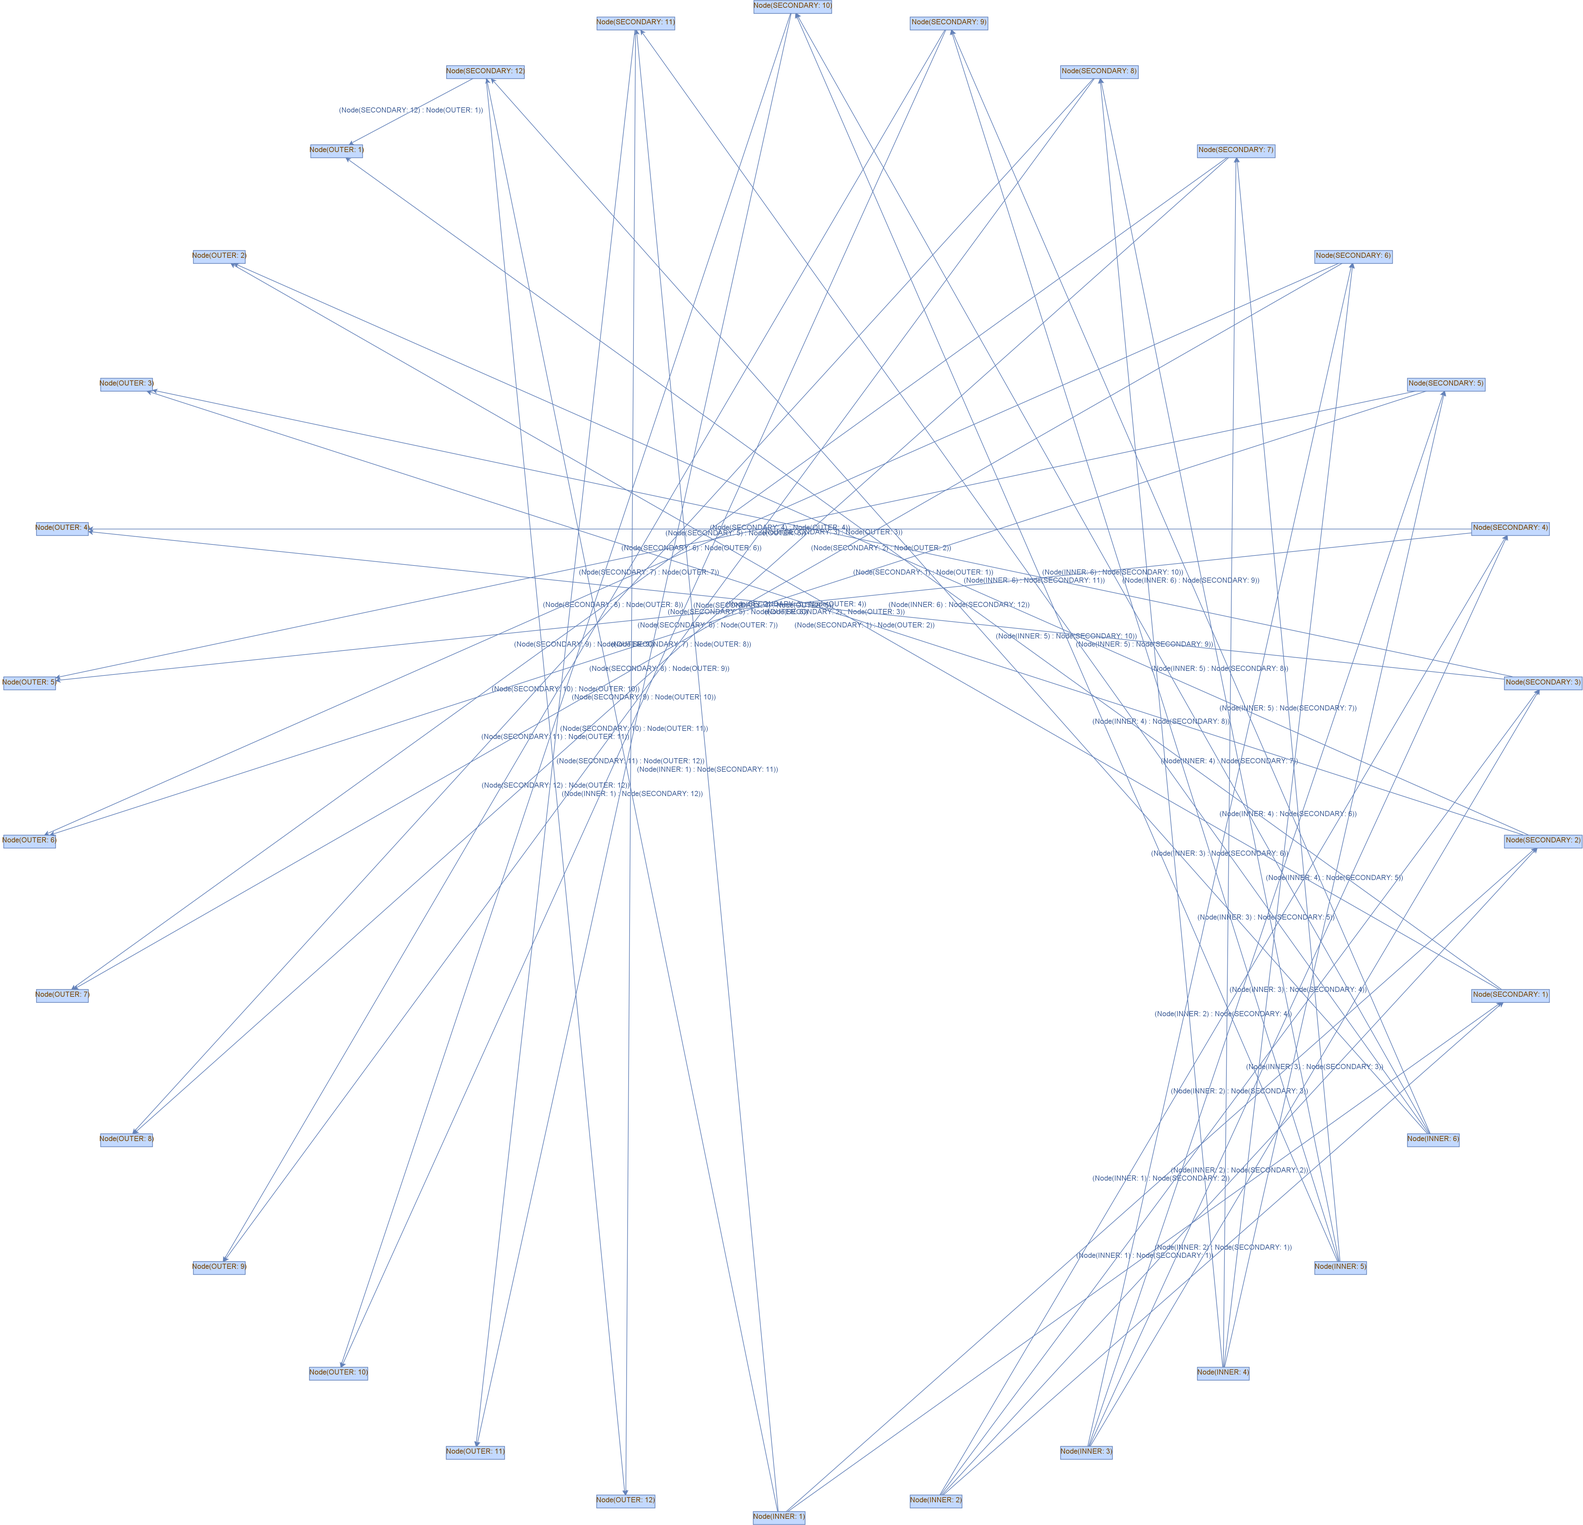
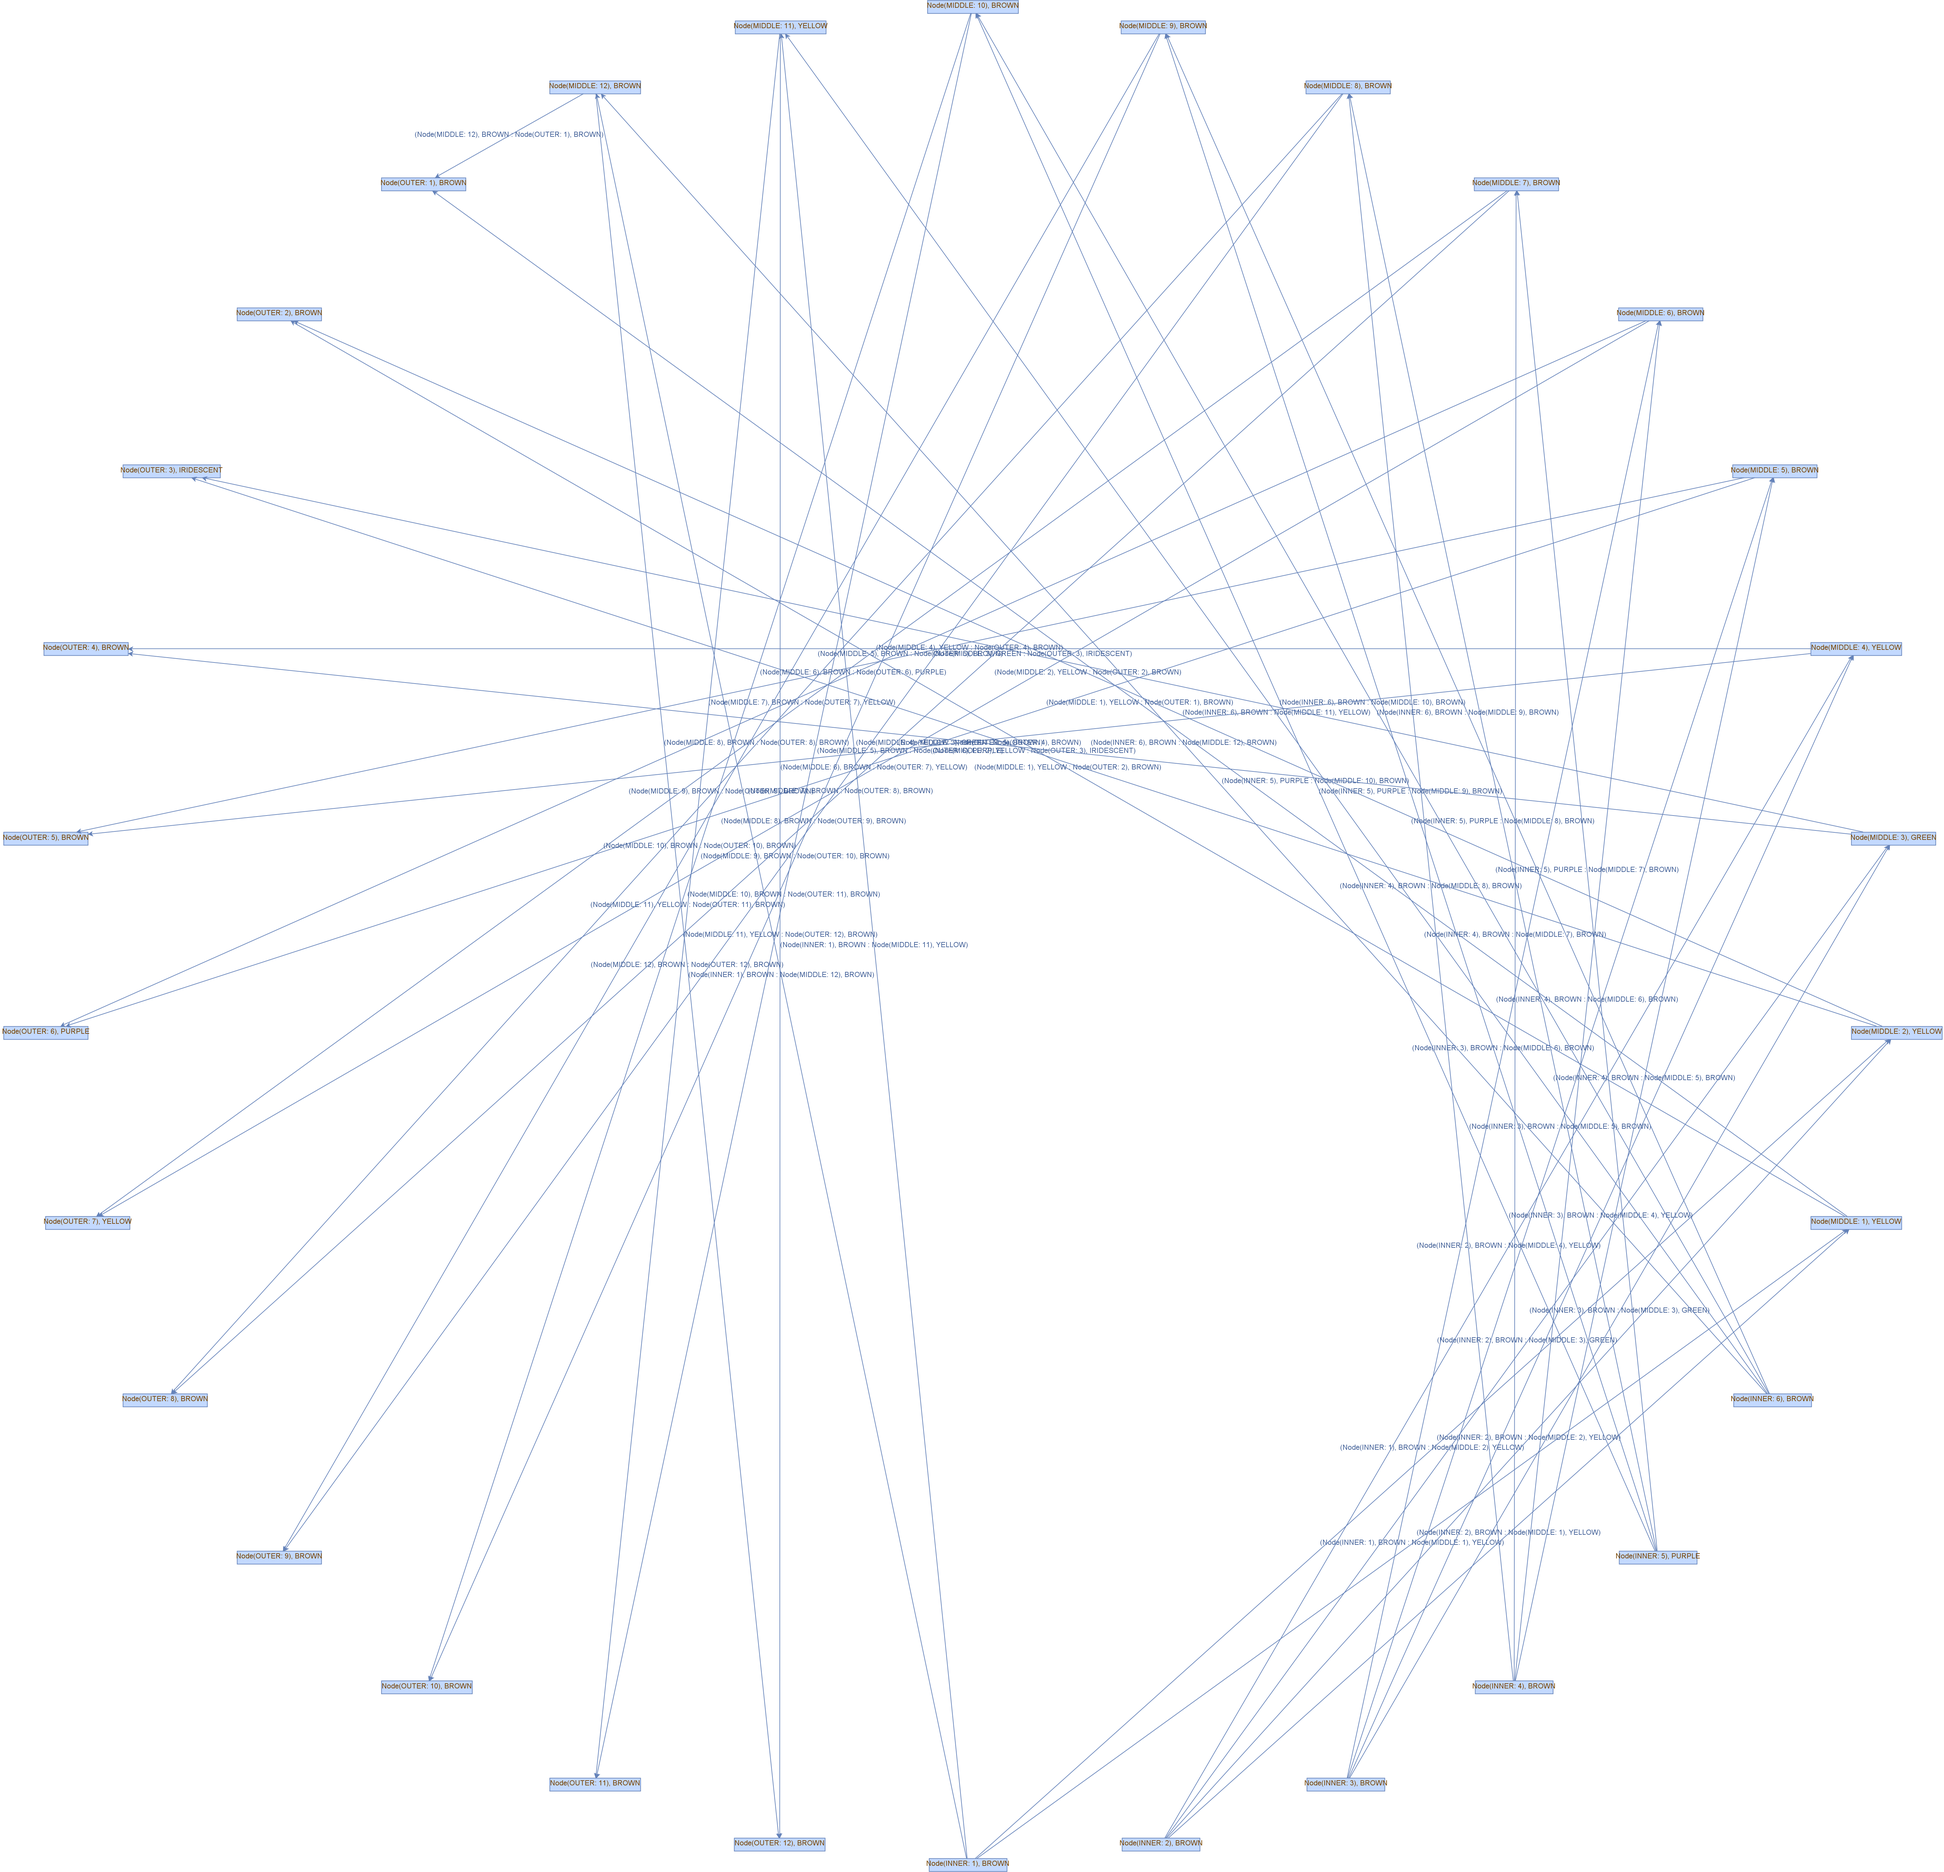
need to fix equals, or search

diff --git a/app/src/main/kotlin/execution_mode/SecondGraderExecutor.kt b/app/src/main/kotlin/execution_mode/SecondGraderExecutor.kt
@@ -1,14 +1,17 @@
 package execution_mode
 
 import blood_web.*
+import com.mxgraph.layout.mxCircleLayout
+import com.mxgraph.layout.mxIGraphLayout
+import com.mxgraph.util.mxCellRenderer
 import detector.Detector
-import helper.save
 import helper.sendLog
 import kotlinx.coroutines.delay
-import kotlinx.coroutines.runBlocking
-import org.jgrapht.Graph
-import org.jgrapht.graph.DefaultEdge
+import org.jgrapht.ext.JGraphXAdapter
+import java.awt.Color
 import java.awt.image.BufferedImage
+import java.io.File
+import javax.imageio.ImageIO
 
 class SecondGraderExecutor(
     delayNewLevelAnimation: Long,
@@ -26,21 +29,22 @@ class SecondGraderExecutor(
 ) {
 
     private val takeScreenShots = false
-    val graph = createFullGraph();
+    private val graph = createFullGraph();
 
 
     override suspend fun pumpBloodWeb() {
-        sendLog("Running SimpleExecutionMode")
+        sendLog("Вызов pumpBloodWeb")
         for (currentLevel in 1..levels) {
             sendLog("Pumping level #$currentLevel")
             pumpOneBloodWebLevel()
             delay(delayNewLevelAnimation)
             clickHelper.moveOutCursor()
         }
-        sendLog("SimpleExecutionMode completed")
+        sendLog("SecondGraderExecutor completed")
     }
 
     private suspend fun pumpOneBloodWebLevel() {
+        sendLog("Вызов pumpOneBloodWebLevel")
         val bloodWebScreenShot = takeScreenShot()
         detector.analyzeBloodWebPageState(bloodWebScreenShot).let { pageState ->
             when (pageState) {
@@ -53,39 +57,55 @@ class SecondGraderExecutor(
                     clickHelper.upgradePrestigeLevel()
                 }
                 BloodWebPageState.LEVEL -> {
-                    BloodWeb.BloodWebCircle.values().forEach {
-                        pumpOneCircleOfBloodWeb(it)
-                    }
+                    updateGraph()
+                    levelToTarget(findExpensiveNode())
                 }
             }
         }
     }
 
-    private suspend fun pumpOneCircleOfBloodWeb(circle: BloodWeb.BloodWebCircle) = runBlocking {
+    private suspend fun updateGraph() {
         val bloodWebScreenShot = takeScreenShot()
-        if (takeScreenShots)
-            bloodWebScreenShot.save(
-                fileName = "BloodWebScreenShot.png",
-            )
+        sendLog("Вызов updateGraph")
 
-        checkPerksInCircle(
-            circle = circle,
-            bloodWebScreenShot
-        ).let { nodes ->
-            sendLog("Pumping $circle")
-            nodes.forEach {
-                sendLog(it.toLogString())
-            }
-
-            nodes.filter { node ->
-                node.state == Node.State.EMPTY
-            }.forEach { perk ->
-                graph.removeVertex(perk)
-            }
+        var vertices = graph.vertexSet()
+        vertices.forEach(){node ->
+            detector.processNodeStateQuality(node, bloodWebScreenShot)
         }
 
+
+
+        vertices.filter {node ->
+            node.state == Node.State.EMPTY || node.state == Node.State.LOCKED
+        }.forEach { vertex ->
+//            vertices.remove(vertex)
+            val isEqual = graph.removeVertex(vertex)
+            sendLog("$vertex is removed $isEqual")
+        }
+        drawGraph()
+    }
+
+    private suspend fun drawGraph(){
+        sendLog("Вызов drawGraph")
+
+        val imgFile = File("resources/graph1.png")
+        imgFile.createNewFile()
+        val graphAdapter = JGraphXAdapter(graph)
+
+        val layout: mxIGraphLayout = mxCircleLayout(graphAdapter)
+
+        layout.execute(graphAdapter.defaultParent)
+
+        val image: BufferedImage = mxCellRenderer.createBufferedImage(graphAdapter, null, 2.0, Color.WHITE, true, null)
+
+        ImageIO.write(image, "PNG", imgFile)
+    }
+
+
+    private suspend fun findExpensiveNode(): Node{
+        sendLog("Вызов findExpensiveNode")
         val vertexSet = graph.vertexSet()
-        val targetPerk = vertexSet.find { node ->
+        return (vertexSet.find { node ->
             node.quality == Node.Quality.IRIDESCENT
         }?:vertexSet.find { node ->
             node.quality == Node.Quality.PURPLE
@@ -93,10 +113,38 @@ class SecondGraderExecutor(
             node.quality == Node.Quality.GREEN
         }?:vertexSet.find { node ->
             node.quality == Node.Quality.YELLOW
-        }?:vertexSet.first()
+        }?:vertexSet.first()).apply { sendLog("Target Node: $this") }
     }
 
-    private fun checkPerksInCircle(
+    private suspend fun changeTargetNode(oldTargetNode: Node): Node? {
+        sendLog("Вызов changeTargetNode")
+        val adjacentEdges = graph.edgesOf(oldTargetNode)
+        adjacentEdges.forEach{
+            val v = graph.getEdgeSource(it)
+            if (v.state == Node.State.AVAILABLE){
+                return v
+            }
+        }
+        
+        adjacentEdges.forEach{
+            return graph.getEdgeSource(it)
+        }
+        
+        return null
+    }
+
+    private suspend fun levelUpNode(node: Node){
+        sendLog("Вызов levelUpNode")
+        node.state?.let {
+            when (it) {
+                Node.State.AVAILABLE -> clickHelper.performClickOnNode(node)
+                Node.State.UNAVAILABLE, Node.State.LOCKED, Node.State.BOUGHT, Node.State.EMPTY -> 
+                    changeTargetNode(node)?.let {newTargetNode -> levelUpNode(newTargetNode) }                    
+            }
+        }
+    }
+
+    private fun setNodesParametersInCircle(
         circle: BloodWeb.BloodWebCircle,
         bufferedImage: BufferedImage
     ): List<Node> {
@@ -119,28 +167,12 @@ class SecondGraderExecutor(
     }
 
     private suspend fun levelToTarget(
-        graph: Graph<Node, DefaultEdge>,
-        targetNode: Node
+                targetNode: Node
     ) {
-        val bloodWebScreenShot = takeScreenShot()
-
-        when (targetNode.orderedNumber.circle) {
-            BloodWeb.BloodWebCircle.INNER -> {
-                clickHelper.performClickOnNode(targetNode)
-            }
-            BloodWeb.BloodWebCircle.MIDDLE -> {
-                val innerMiddleEdges = graph.edgesOf(targetNode)
-                var innerVertexes: Set<Node> = emptySet()
-                innerMiddleEdges.forEach{innerVertexes.plus(graph.getEdgeSource(it))}
-
-                val availableNode = innerVertexes.first { node ->
-                    node.state == Node.State.AVAILABLE
-                }
-                clickHelper.performClickOnNode(availableNode)
-            }
-            BloodWeb.BloodWebCircle.OUTER -> {
-
-            }
+        sendLog("Вызов levelToTarget")
+        while (targetNode.state != Node.State.BOUGHT || targetNode.state != Node.State.LOCKED) {
+            levelUpNode(targetNode)
+            updateGraph()
         }
     }
 }

diff --git a/app/src/main/kotlin/blood_web/Presets.kt b/app/src/main/kotlin/blood_web/Presets.kt
@@ -63,7 +63,7 @@ fun createFullGraph(): Graph<Node, DefaultEdge> {
         graph.addVertex(node)
     }
 
-    val vertexesSet = graph.vertexSet()
+    val verticesSet = graph.vertexSet()
 
     Presets().innerPoints.forEach { point ->
         val node1 = point.parseIntoNode()
@@ -72,8 +72,8 @@ fun createFullGraph(): Graph<Node, DefaultEdge> {
             val index = (node1.orderedNumber.position * 2 + 12 - 3 + i - 1) % 12 //
             val preset = Presets().middlePoints[index]
             graph.addEdge(
-                vertexesSet.find { it == node1 },
-                vertexesSet.find { node2 -> node2 == Node(preset.first, preset.second) })
+                verticesSet.find { it == node1 },
+                verticesSet.find { node2 -> node2 == Node(preset.first, preset.second) })
         }
     }
 
@@ -85,7 +85,7 @@ fun createFullGraph(): Graph<Node, DefaultEdge> {
         for (i in 0..1) {
             val index = (node1.orderedNumber.position - 1 + 12 + i) % 12 //
             val preset = Presets().outerPoints[index]
-            graph.addEdge(vertexesSet.find { it == node1 }, vertexesSet.find { node2 -> node2 == Node(preset.first, preset.second) })
+            graph.addEdge(verticesSet.find { it == node1 }, verticesSet.find { node2 -> node2 == Node(preset.first, preset.second) })
         }
 
     }

diff --git a/app/src/main/kotlin/presentation/compose/control_panel/ModeSelect.kt b/app/src/main/kotlin/presentation/compose/control_panel/ModeSelect.kt
@@ -1,6 +1,5 @@
 package presentation.compose.control_panel
 
-import androidx.compose.foundation.background
 import androidx.compose.foundation.layout.*
 import androidx.compose.material.Button
 import androidx.compose.material.Card
@@ -8,7 +7,6 @@ import androidx.compose.material.Text
 import androidx.compose.runtime.*
 import androidx.compose.ui.Alignment
 import androidx.compose.ui.Modifier
-import androidx.compose.ui.graphics.Color
 import androidx.compose.ui.unit.dp
 import helper.Command
 
@@ -35,8 +33,8 @@ fun ModesSelect(
                 setSelectedMode(Command.Mode.SIMPLE)
                 simpleButtonSelected = true
             }
-            Command.Mode.CHEAPEST_FIRST -> {
-                setSelectedMode(Command.Mode.CHEAPEST_FIRST)
+            Command.Mode.RAREST_FIRST -> {
+                setSelectedMode(Command.Mode.RAREST_FIRST)
                 ecoButtonSelected = true
             }
         }
@@ -71,7 +69,7 @@ fun ModesSelect(
             Button(
                 enabled = !ecoButtonSelected,
                 onClick = {
-                    selectOption(Command.Mode.CHEAPEST_FIRST)
+                    selectOption(Command.Mode.RAREST_FIRST)
                 }
             ) {
                 Text("Eco")

diff --git a/app/src/main/kotlin/launch_mode/JavaFxLauncher.kt b/app/src/main/kotlin/launch_mode/JavaFxLauncher.kt
@@ -76,8 +76,8 @@ class JavaFxLauncher : AppLauncher, Application() {
                                     when ((mainController.runningModeGroup.selectedToggle as? RadioButton)?.id) {
                                         mainController.rbModeTest.id -> 0
                                         mainController.rbModeSimple.id -> 1
-                                        mainController.rbModeEco.id -> 2
-                                        mainController.rbModeNonEco.id -> 3
+                                        mainController.rbModeNonEco.id -> 2
+                                        mainController.rbModeEco.id -> 3
                                         else -> 0
                                     }
                                 val mode = Command.Mode.values().find {

diff --git a/app/src/main/kotlin/blood_web/Node.kt b/app/src/main/kotlin/blood_web/Node.kt
@@ -18,18 +18,14 @@ data class Node(
     )
 
     override fun toString(): String {
-        return "Node($orderedNumber)"
+        return "Node($orderedNumber), $state, $quality"
     }
 
     override fun equals(other: Any?): Boolean {
         if (other !is Node) return false
         if (this.orderedNumber != other.orderedNumber)
             return false
-        if (this.topCenterCoord != other.topCenterCoord)
-            return false
-        if (this.state != other.state)
-            return false
-        return this.quality == other.quality
+        return (this.topCenterCoord == other.topCenterCoord)
     }
 
     fun toLogString() = "Node(orderedNumber:$orderedNumber, state=$state, quality=$quality)"

diff --git a/app/src/main/kotlin/launch_mode/GraphTestConsoleLauncher.kt b/app/src/main/kotlin/launch_mode/GraphTestConsoleLauncher.kt
@@ -43,7 +43,15 @@ class GraphTestConsoleLauncher : AppLauncher {
 
         val nodeGraph = createFullGraph()
 
-        nodeGraph.edgeSet().forEach{ println(it) }
+//
+//        val bloodWebScreenShot = takeScreenShot()
+//
+//        graph.vertexSet().forEach(){node ->
+//            detector.processNodeStateQuality(node, bloodWebScreenShot)
+//        }
+
+        nodeGraph.vertexSet().first().quality = Node.Quality.IRIDESCENT
+//        nodeGraph.edgeSet().forEach{ println(it) }
 
         println()
         println("-- visualisation")

diff --git a/app/src/main/kotlin/execution_mode/ExecutionMode.kt b/app/src/main/kotlin/execution_mode/ExecutionMode.kt
@@ -83,7 +83,7 @@ sealed class ExecutionMode(
                     prestigeLevelUpDuration = prestigeLevelUpDuration,
                     detector = AdvancedDetector(),
                 )
-                Command.Mode.CHEAPEST_FIRST -> SecondGraderExecutor(
+                Command.Mode.RAREST_FIRST -> SecondGraderExecutor(
                     levels = command.levels,
                     delayNewLevelAnimation = delayNewLevelAnimation,
                     perkSelectionDuration = perkSelectionDuration,

diff --git a/app/src/main/kotlin/execution_mode/SimpleExecutionMode.kt b/app/src/main/kotlin/execution_mode/SimpleExecutionMode.kt
@@ -76,8 +76,8 @@ class SimpleExecutionMode(
 
             nodes.filter { node ->
                 node.state == Node.State.AVAILABLE
-            }.forEach { perk ->
-                clickHelper.performClickOnNode(perk)
+            }.forEach { node ->
+                clickHelper.performClickOnNode(node)
             }
         }
     }

diff --git a/app/src/main/kotlin/detector/AdvancedDetector.kt b/app/src/main/kotlin/detector/AdvancedDetector.kt
@@ -32,7 +32,6 @@ class AdvancedDetector : Detector {
             NODE_SIZE_PX
         )
         checkNodeState(node, nodeBufferedImage)
-        println(node)
     }
 
     private fun checkPrestigeLevelState(bufferedImage: BufferedImage): Boolean {

diff --git a/app/src/main/kotlin/helper/LogHelper.kt b/app/src/main/kotlin/helper/LogHelper.kt
@@ -5,6 +5,7 @@ import kotlinx.coroutines.flow.MutableStateFlow
 val executionLogs = MutableStateFlow("")
 suspend fun sendLog(log: String) {
     executionLogs.emit(executionLogs.value + "\n" + log)
+    println(log)
 }
 
 suspend fun clearLog() {

diff --git a/app/src/main/kotlin/Main.kt b/app/src/main/kotlin/Main.kt
@@ -8,7 +8,7 @@ import java.util.logging.Logger
 
 fun main() {
     turnOffLogs()
-    val appLauncher: AppLauncher = GraphTestConsoleLauncher()
+    val appLauncher: AppLauncher = JavaFxLauncher()
     appLauncher.run()
 }
 

diff --git a/app/src/main/kotlin/helper/Command.kt b/app/src/main/kotlin/helper/Command.kt
@@ -6,6 +6,6 @@ data class Command(
     val levels: Int,
 ) {
     enum class Mode(val number: Int) {
-        TEST(0), SIMPLE(1), CHEAPEST_FIRST(2)
+        TEST(0), SIMPLE(1), RAREST_FIRST(2)
     }
 }
